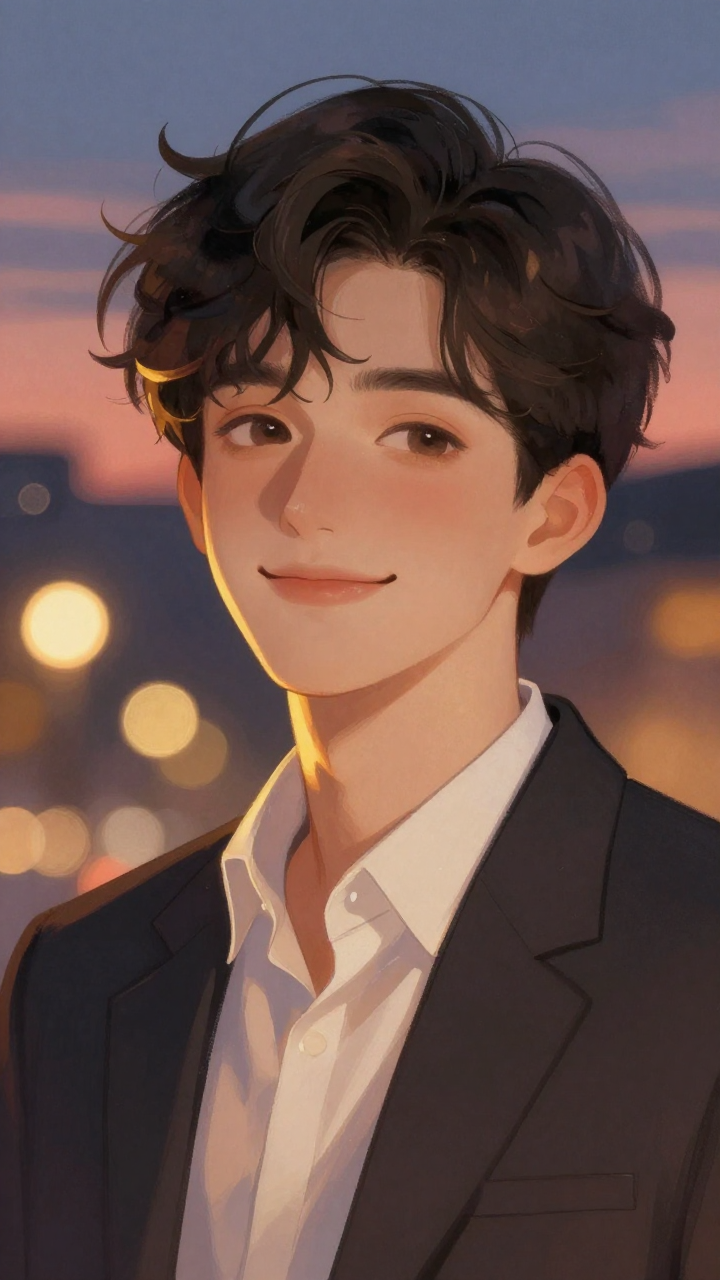
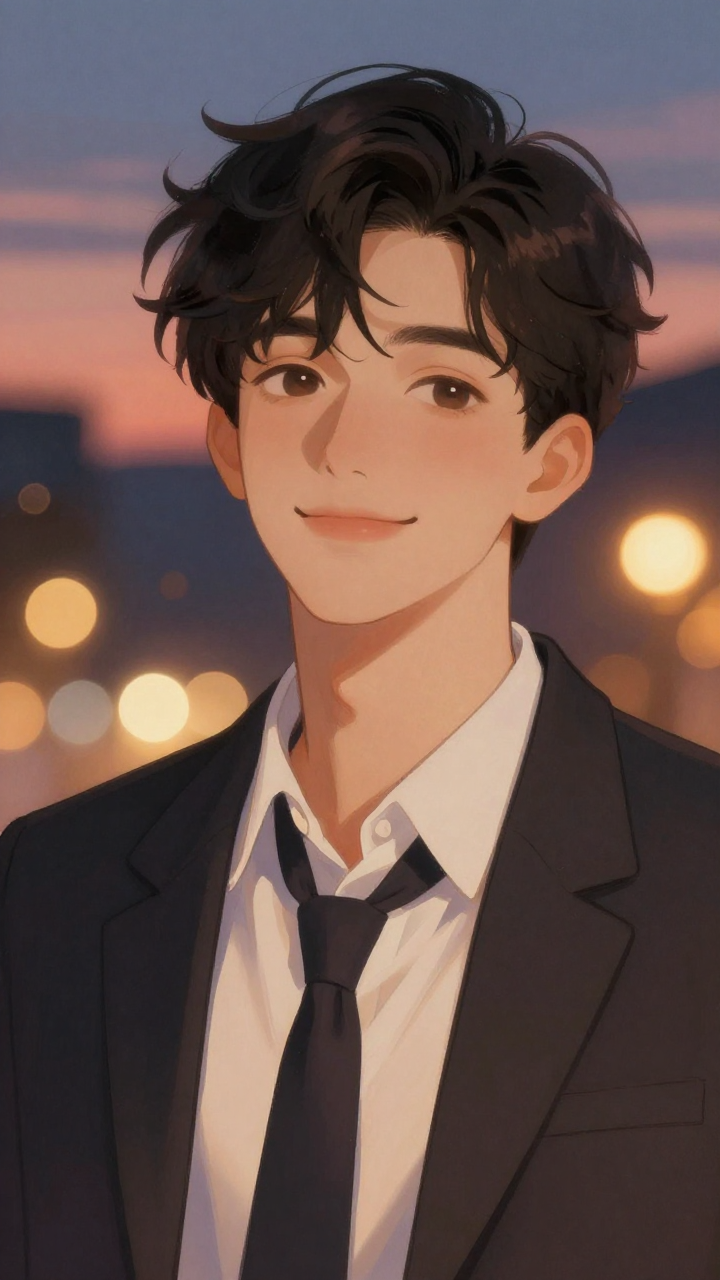
Canvas: corregir plano 3 (corbata, farol) y agregar puerta de revisión al skill

diff --git a/skills/spotify-canvas/SKILL.md b/skills/spotify-canvas/SKILL.md
@@ -82,10 +82,15 @@ Cuando se pida "multiescena" o se quiera más ritmo que un solo plano. Caso: "Lo
 2. **Disolvencias largas (≈16 frames) en vez de cortes**: son más oníricas y evitan lo que Spotify desaconseja (cortes rápidos, destellos). Spotify solo avala el corte duro; la disolvencia no está confirmada oficialmente y no se encontró ningún tutorial multiescena. Si el usuario quiere el camino seguro, usar menos planos y más largos.
 3. **Capas continuas que unan los planos**: bokeh y brasas flotantes, velo cálido y bloom constantes en todo el clip. Son periódicas, así que la costura del bucle (último plano → primero) no se nota.
 4. **Mantener coherencia visual** con un prefijo de estilo común en todos los prompts (`style` en `scenes.json`), paleta cálida y la misma descripción del personaje.
-5. Pipeline: `scenes.json` (prompts, semillas) → `python scripts/gen_scenes.py scenes.json <carpeta> metrics.csv` (solo genera lo que falta; para repetir una escena, borrar su PNG) → **mirar las 5 imágenes** → `render.json` (zoom, pan y halo por plano) → `python scripts/animate_scenes.py render.json salida.mp4` (~2,5 min).
+5. Pipeline: `scenes.json` (prompts, semillas) → `python scripts/gen_scenes.py scenes.json <carpeta> metrics.csv` (solo genera lo que falta; para repetir una escena, borrar su PNG) → **puerta de revisión (ver abajo)** → `render.json` (zoom, pan y halo por plano) → `python scripts/animate_scenes.py render.json salida.mp4` (~2,5 min).
+5b. **Puerta de revisión antes de renderizar (obligatoria).** Dos pasos, en este orden, y no se renderiza hasta completarlos:
+   - **a) Autorrevisión de la IA:** abrir cada PNG y contrastarlo con una lista por escena: (1) cada elemento clave de la letra aparece y está bien interpretado; (2) el vestuario/atributos fijos del personaje (corbata, sin sombrero, edad, barba) están visibles; (3) **no hay objetos de otra escena** (p. ej. un farol que solo corresponde al plano del barco, colado en el plano de la sirena; el estilo común puede arrastrarlos: no meter objetos de una escena en el `style`); (4) sin texto, cables, troncos u otros artefactos de IA; (5) lo importante en la mitad superior. Si algo falla, borrar ese PNG, corregir el prompt (con negaciones) y regenerar solo esa escena.
+   - **b) Aprobación del usuario:** mostrar las imágenes (p. ej. con `SendUserFile` o una hoja de contacto) y esperar su visto bueno. Solo entonces ejecutar `animate_scenes.py`. Renderizar antes cuesta ≈ 2,5 min por cada error que el usuario detecte después.
 6. Cada imagen: lo importante en la mitad superior. Los planos cerrados (rostro, manos, labios) funcionan bien con ilustración pintada; los labios salen más fotográficos, el bloom y el velo cálido unifican el conjunto.
 7. **Verificar el bucle** comparando la diferencia en la costura con la de las demás disolvencias (deben ser del mismo orden; en el ejemplo, 4,2 vs 4–5). La diferencia mediana entre frames es mayor que en un plano único (1,6 vs 0,6) porque las disolvencias cambian toda la imagen.
-8. **Métricas:** registrar un `epoch,etapa` por hito (`gen_scenes.py` lo hace para las imágenes) y resumirlo en `canvas/metrics/`. Referencia: 11,3 min en total, de ellos 2,4 min de render y ≈ 1 min por imagen.
+8. **Métricas:** registrar un `epoch,etapa` por hito (`gen_scenes.py` lo hace para las imágenes) y resumirlo en `canvas/metrics/`. Referencia: 11,3 min (postes v2, con una corrección) y 8,9 min (Canto de sirena, 5 imágenes de ≈ 65 s + 170 s de render). Cada regeneración de una imagen más su re-render cuesta ≈ 4 min.
+
+Lecciones de la v2/sirena (errores de IA que el usuario detectó tras el render): en el plano 3 de "postes" el rostro salió sin corbata (hay que pedir "necktie knotted at the neck and hanging down the shirt front" y encuadrar pecho) y en el plano 3 de "Canto de sirena" apareció un farol flotante heredado del `style` ("warm amber lantern accents"). Ambos se habrían evitado con la puerta 5b.
 
 Lección de fidelidad: la palabra **"postes"** de esta letra son "los pilares de una construcción" **en la calle**, no troncos cortados ni postes de luz. La escena debe mostrar pilares estructurales de madera (de suelo a viga) sosteniendo un edificio en obra, sobre la banqueta de la calle central. Un tocón o tronco cortado, o un poste de luz, es un error. Lo mismo con el vestuario: "disfrazado de traje y corbata" exige la **corbata visible en todos los planos donde aparezca el personaje**. En la v2 del Canvas el plano de grabado salió sin corbata porque el prompt solo decía "hand and forearm"; en planos cerrados de manos o torso, nombrar la prenda explícitamente (p. ej. "dark suit sleeve with a white cuff, a dark tie hanging into frame") y revisarla al mirar cada imagen. Antes de generar, traducir cada sustantivo clave de la letra a una descripción visual inequívoca y repetirla en los prompts (incluidas las negaciones: "not a tree stump, not a cut log").
 
@@ -107,6 +112,7 @@ Lección de fidelidad: la palabra **"postes"** de esta letra son "los pilares de
 - [ ] 9:16, 1080×1920; 3–7,96 s (nunca 8,000 exactos); H.264 `yuv420p`; sin audio; ≤ 15 MB
 - [ ] Sin texto, logos ni promoción; lo importante arriba/centro
 - [ ] Bucle sin salto (diferencia del seam similar a la de frames consecutivos)
+- [ ] Imágenes autorrevisadas por el agente (lista del paso 5b) **y aprobadas por el usuario antes de renderizar**
 - [ ] Revisado visualmente por el agente y aprobado por el usuario antes de sobrescribir nada
 
 ## 6. Vía opcional: video generativo (solo para movimiento sutil)

diff --git a/canvas/metrics/correccion2-metricas.md b/canvas/metrics/correccion2-metricas.md
@@ -1,0 +1,12 @@
+# Métricas — segunda corrección (plano 3 de ambos Canvas)
+
+Motivo: usuario detectó (tras el render) corbata ausente en el rostro de "Los postes de la calle central 2" y un farol flotante en la sirena de "Canto de sirena".
+
+| Etapa | Tiempo |
+|---|---|
+| Regenerar s3_rostro (postes) | 60 s |
+| Regenerar s3_sirena (sirena) | 60 s |
+| Re-render de ambos videos (2 × ≈ 2–3 min, sin cronometrar por separado) | ≈ 4–5 min |
+| Arranque de ComfyUI | ≈ 1 min |
+
+Coste de la corrección: ≈ 7–8 min en total, evitable con la puerta de revisión (autorrevisión del agente + aprobación del usuario antes de renderizar), ahora en el paso 5b del skill. Los tiempos de re-render son estimados, no medidos con epoch.
